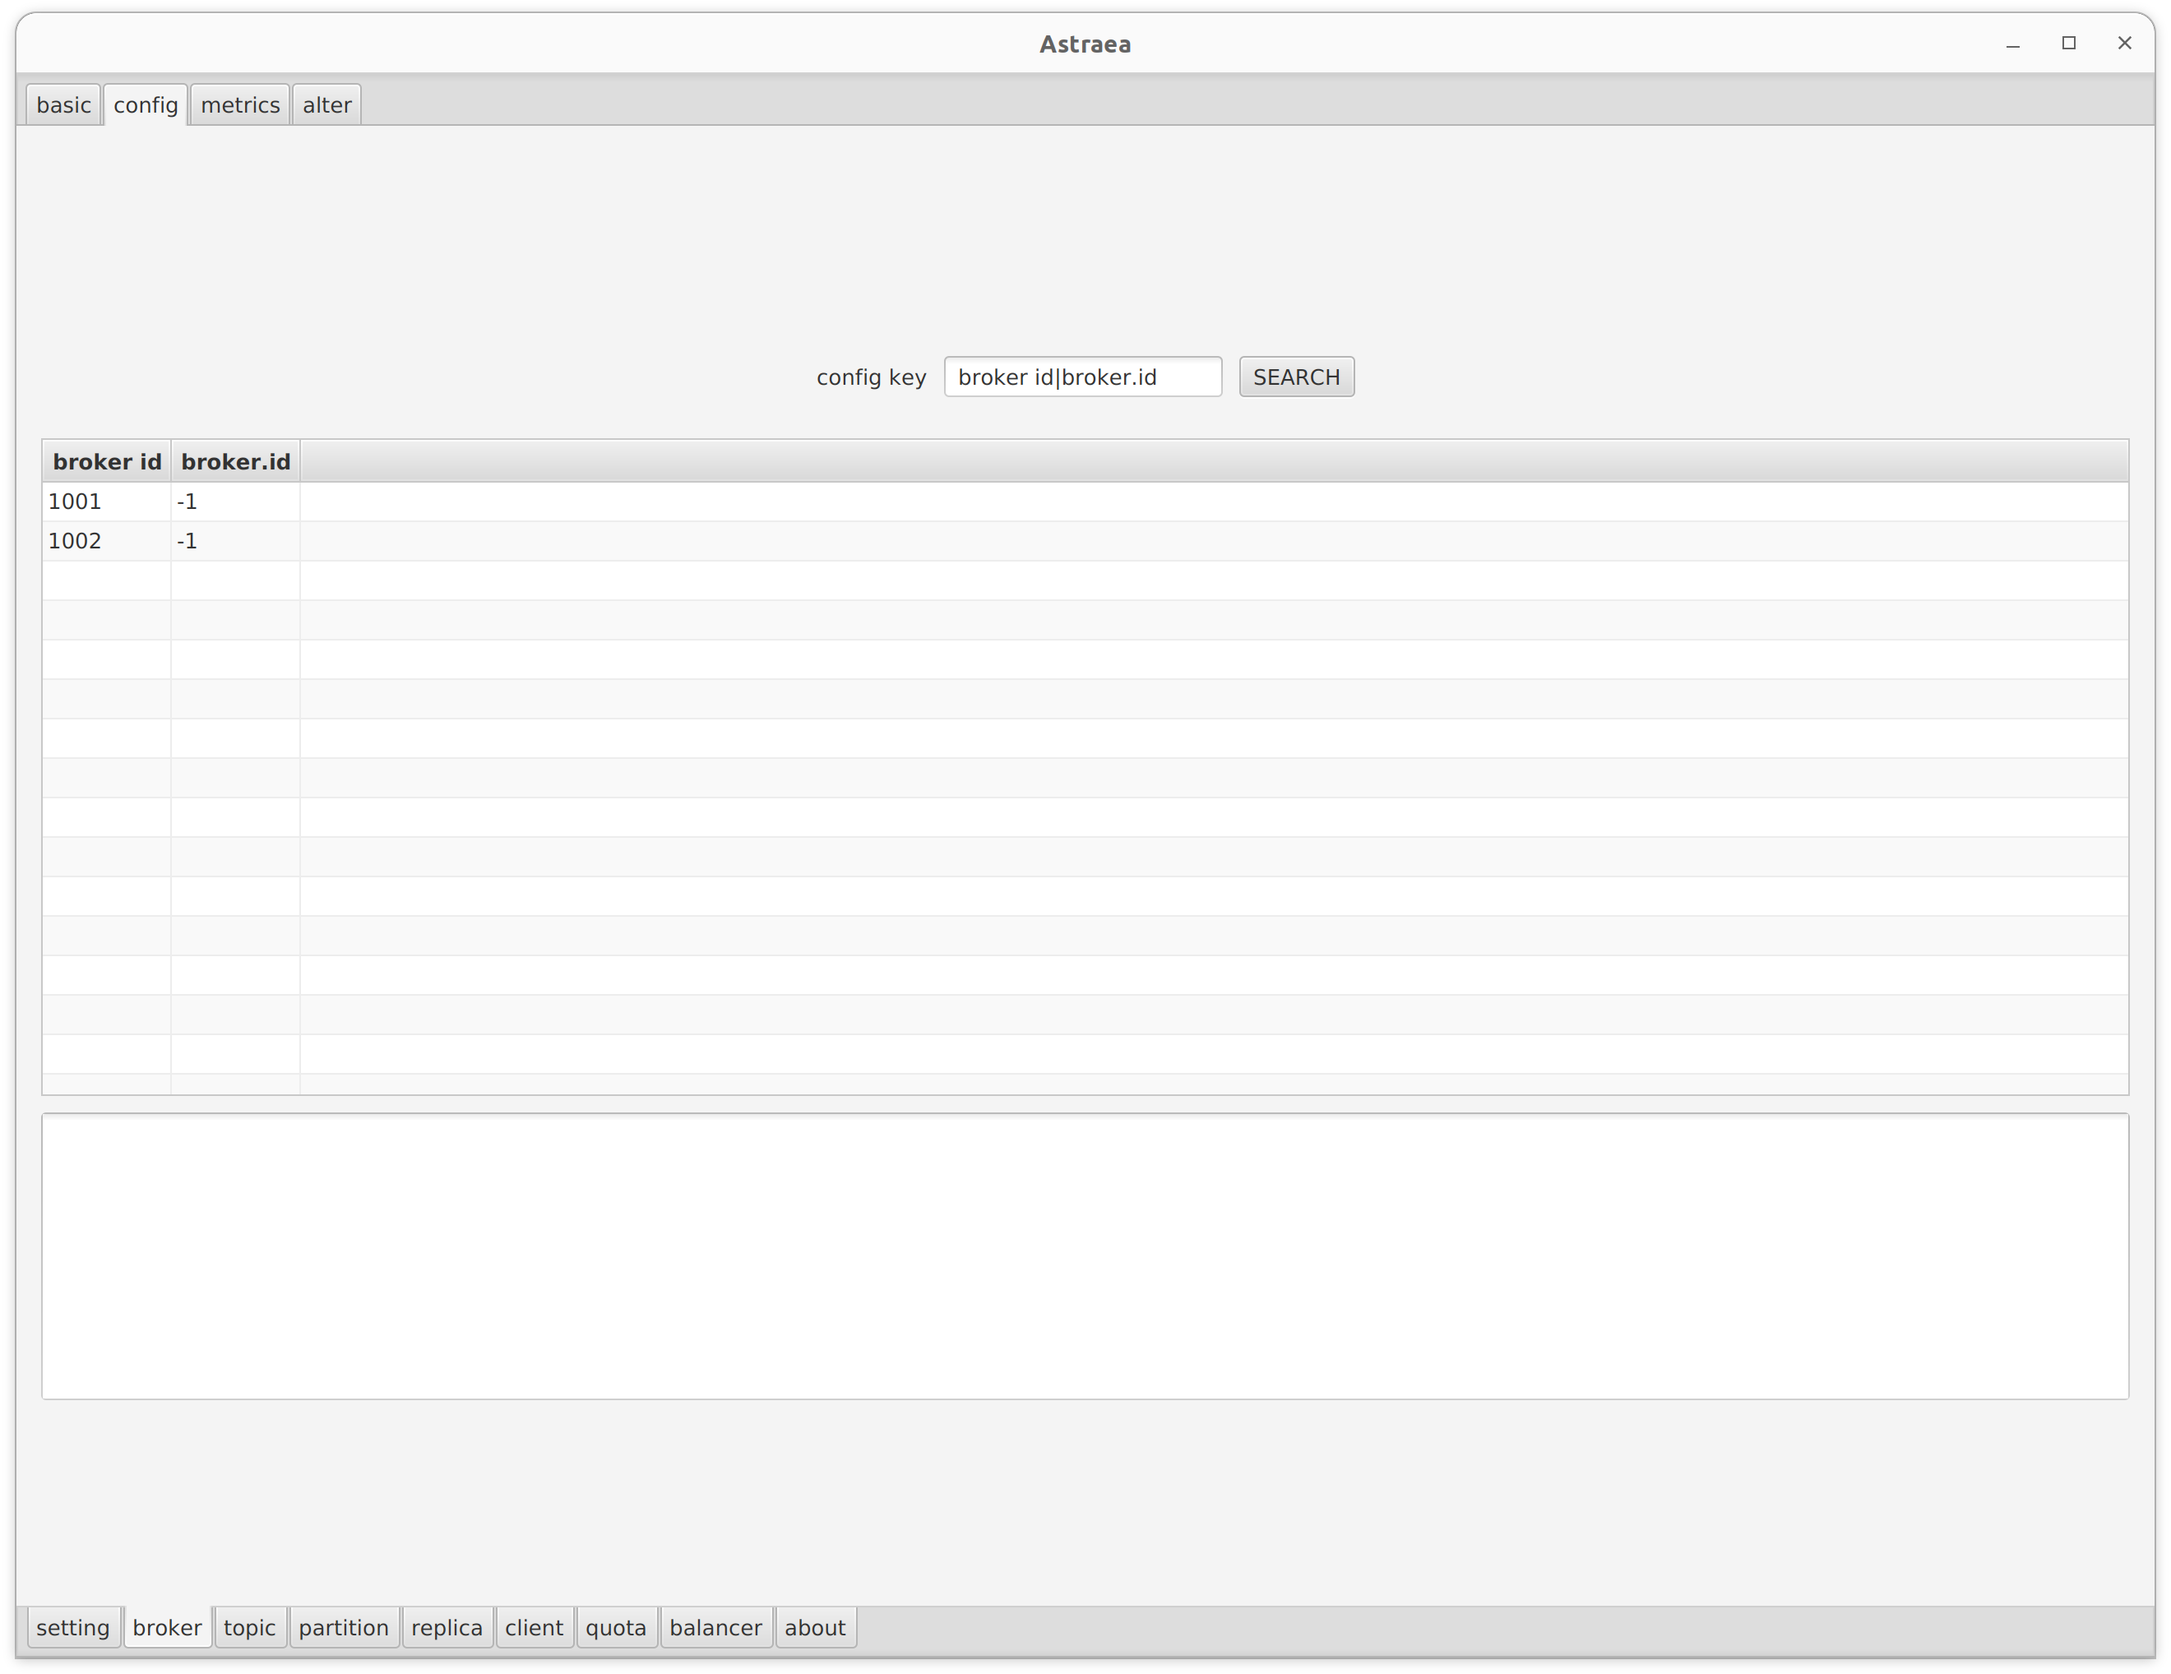
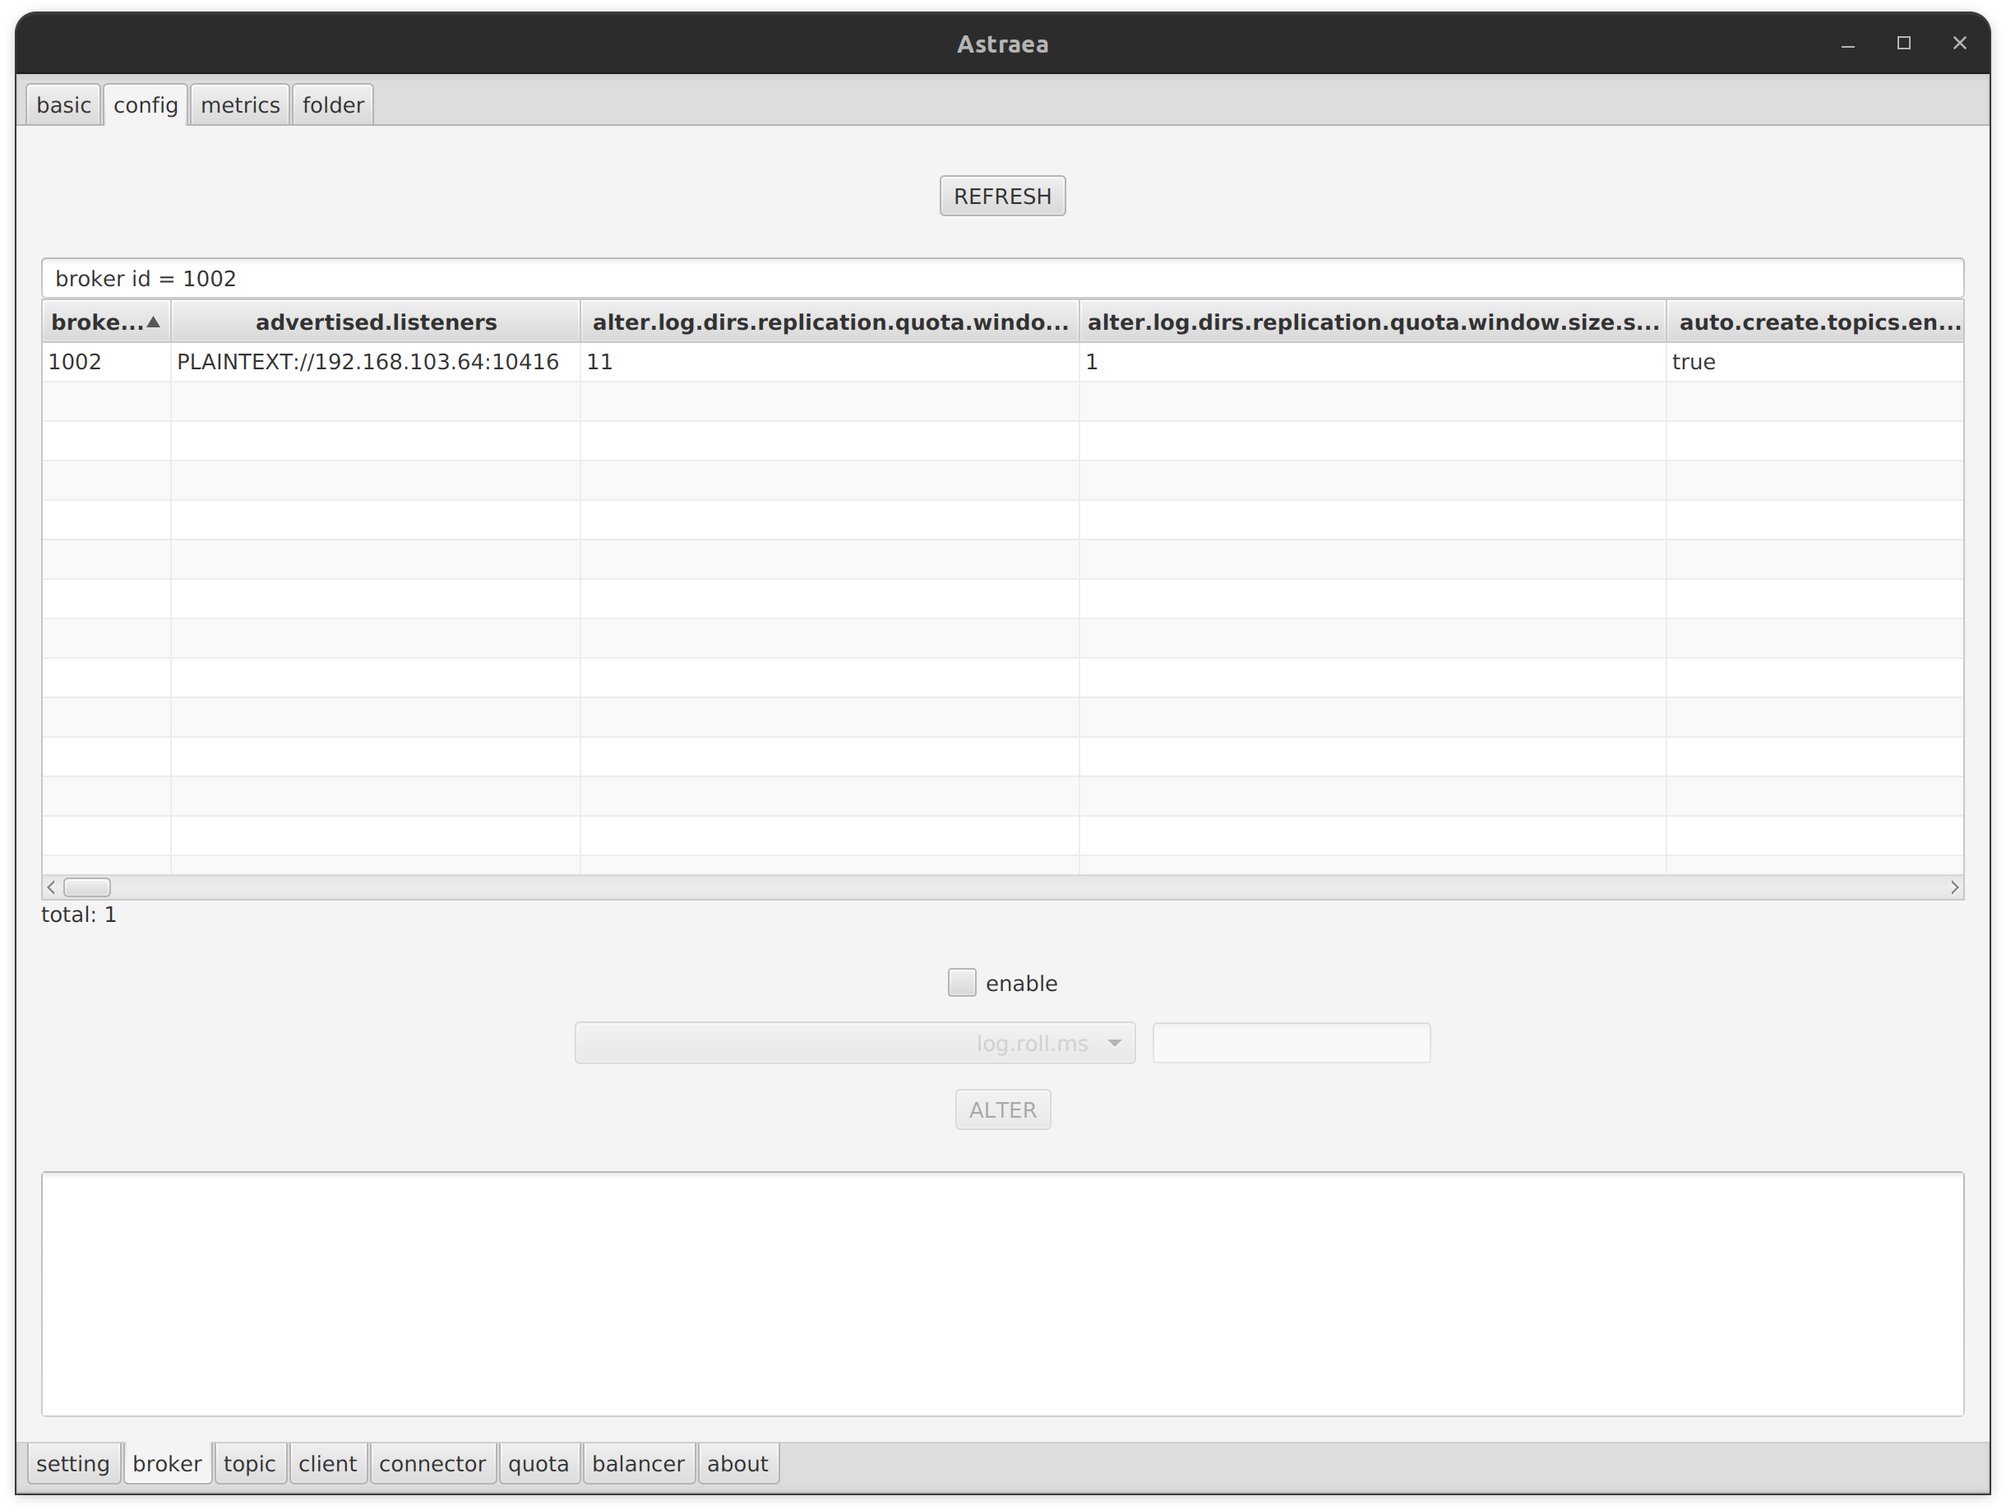
[Docs]Update gui README.md and pic (#1371)
* update broker tab docs and img

* update about tab doc and images

* create doc for connector

* update balancer doc

* update quota doc and images

* remove and reorder doc links

diff --git a/docs/gui/connector/README.md b/docs/gui/connector/README.md
@@ -1,0 +1,43 @@
+### connector
+
+在最初設定中有填入`worker`相關資訊，即可以在此區域檢視與管理`worker`
+
+此專案建立之`worler`預設`plugin`位置在`tmp/worker-plugins`
+
+- [basic](#basic)
+- [task](#task)
+- [create](#create)
+- [active workers](#active-workers)
+- [plugin](#plugin)
+
+### basic
+檢視當前`worker`所執行中的`connector`其名稱、狀態與參數內容，如需要可以在此頁面刪除`connector`
+
+![connector_basic_1.png](connector_basic_1.png)
+
+### task
+當下`worker`所執行之`task`創建資訊與其當下統計之狀態
+
+當`task`有出現`error`時，會在`error` field 展示其 exception 內容
+
+![connector_task_1.png](connector_task_1.png)
+*因缺少`jar`檔，因此出現錯誤並顯示在 `error` field中*
+
+### create
+可以透過 gui 在此 `worker`創建所需要之`connector`，創建完成時會在下方顯示創造出來的`connector`
+
+![connector_create_1.png](connector_create_1.png)
+
+### active workers
+顯示當下所執行之 `worker`，包含資訊有執行`connector`,`task`數量、版本與`cluster id`等資訊
+
+![connector_active_workers_1.png](connector_active_workers_1.png)
+
+### plugin
+可以檢視此`worker`以安裝之`plugin`資訊與其文件，兩者都可以透過`query`進行搜尋與過濾
+
+![connector_plugin_1.png](connector_plugin_1.png)
+*此`worker`所有可使用之`plugin`與相關資訊*
+
+![connector_plugin_2.png](connector_plugin_2.png)
+*`plugin`的其說明文件，有其所需之參數之說明*

diff --git a/docs/gui/balancer/README.md b/docs/gui/balancer/README.md
@@ -1,15 +1,19 @@
 ### balancer
 
 `Balancer` 實裝了 Astraea 研製的負載平衡演算法，可快速方便的依照使用者指定的目標來負載平衡叢集。
-以下圖為例，可注意到叢集中的節點`1001`明顯負擔了過多的`partitions`
+以下圖為例，可注意到叢集中的節點`1002`明顯負擔了過多的`partitions`
 
 ![before balance](balancer_before.png)
 
 因此我們以平衡`replica`為目標來運行負載平衡，如下圖，Astraea balancer 會在一定時間內嘗試組合各種`replicas`配置，並且在其中選擇最佳的配置
 
-![execute balance](balancer_execute.png)
+![execute balance](balancer_execute_1.png)
+*所顯示每個`broker`預計之變化*
 
-Astraea balancer 運行結束後，可以從下圖看到節點`1001`所負責的`replicas`已經平衡到其他節點，同時 Astraea balancer 也不會製造出另一個負載過重的節點
+![balancer_execute_2.png](balancer_execute_2.png)
+*實際所搬移計畫之詳細內容*
+ㄉ
+Astraea balancer 運行結束後，可以從下圖看到節點`1002`所負責的`replicas`已經平衡到其他節點，同時 Astraea balancer 也不會製造出另一個負載過重的節點
 
 ![after balance](balancer_after.png)
 

diff --git a/docs/gui/broker/README.md b/docs/gui/broker/README.md
@@ -5,7 +5,7 @@
 - [basic](#basic)
 - [config](#config)
 - [metrics](#metrics)
-- [alter](#alter)
+- [folder](#folder)
 
 ### basic
 `basic` 可以查詢所有或特定`broker/host`的基本資訊
@@ -21,19 +21,26 @@
 
 可以查詢`broker`內的各項`config`，搜尋部分支援正規表示法，可以進一步過濾查詢資料
 
+並且支援修改broker之設定
+
 ![broker-config 1](broker_config_1.png)
 *不指定`config key`*
 
 ![broker-config 2](broker_config_2.png)
-*指定兩個`key`的寫法*
+*指定`broker id`*
 
 
 ### metrics
 
 可以取得`broker`的各項指標，搜尋可支援正規表示法
 
+需要在最初輸入 `jmx port`才可以使用此頁面
+
 指標種類有以下項目:
 
+- info
+- zookeeper request
+- zookeeper session
 - host
 - controller
 - controller state
@@ -45,9 +52,11 @@
 ![broker-metrics 1](broker_metrics_1.png)
 *查看`host`的資訊*
 
-### alter
+### folder
 
-可以在此頁面檢視與修改 `broker` 的設定
+可以在此看到所有`broker`中的`folder`資訊，有其位置，大小等資訊
+
+並且可以透過歸表示法進行搜尋
 
 ![broker-alter 1](broker_alter_1.png)
-*快速查看`broker`資訊，並且可以透過下方按鈕變更*
+*查看`folder`資訊*

diff --git a/docs/gui/quota/README.md b/docs/gui/quota/README.md
@@ -7,14 +7,12 @@
 
 ## 調閱 quota
 
-`basic` tab 中，您可以透過上方選擇基於 `ip address` 或是 `client id` 來查詢對應的 `quotas`
+`basic` tab 中，您可以查詢當前所設定的 `quotas`
 
-![quota_ip](quota_ip.png)
-![quota_client_id](quota_client_id.png)
+![quota_basic](quota_basic.png)
 
-您也可以透過搜尋欄位查詢指定 `ip` 或 `client id`
+您也可以透過搜尋欄位查詢指定 `client id`
 
-![quota_ip_search](quota_ip_search.png)
 ![quota_client_id_search](quota_client_id_search.png)
 
 ## 設定 quota

diff --git a/docs/gui/about/README.md b/docs/gui/about/README.md
@@ -2,6 +2,6 @@
 
 `about` 頁面提供了版本與維護者資訊可供參考
 
-![version](about_version.png)
+![version](about_version_1.png)
 
 ![maintainers](about_maintainers.png)
